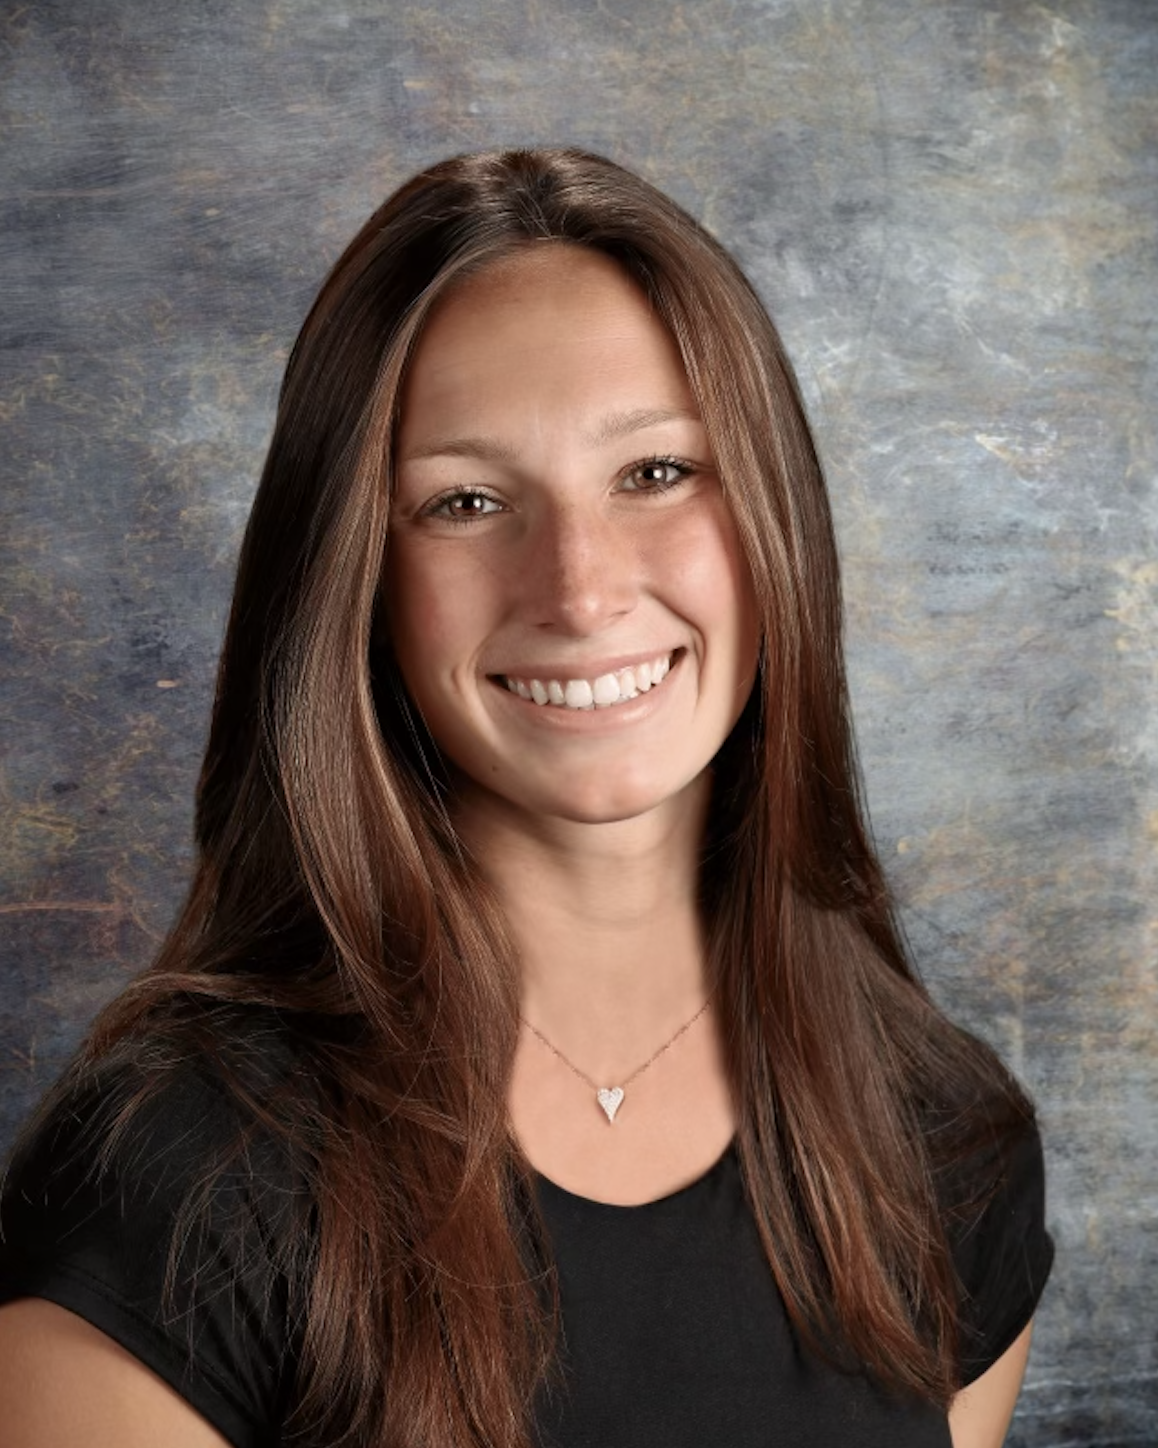
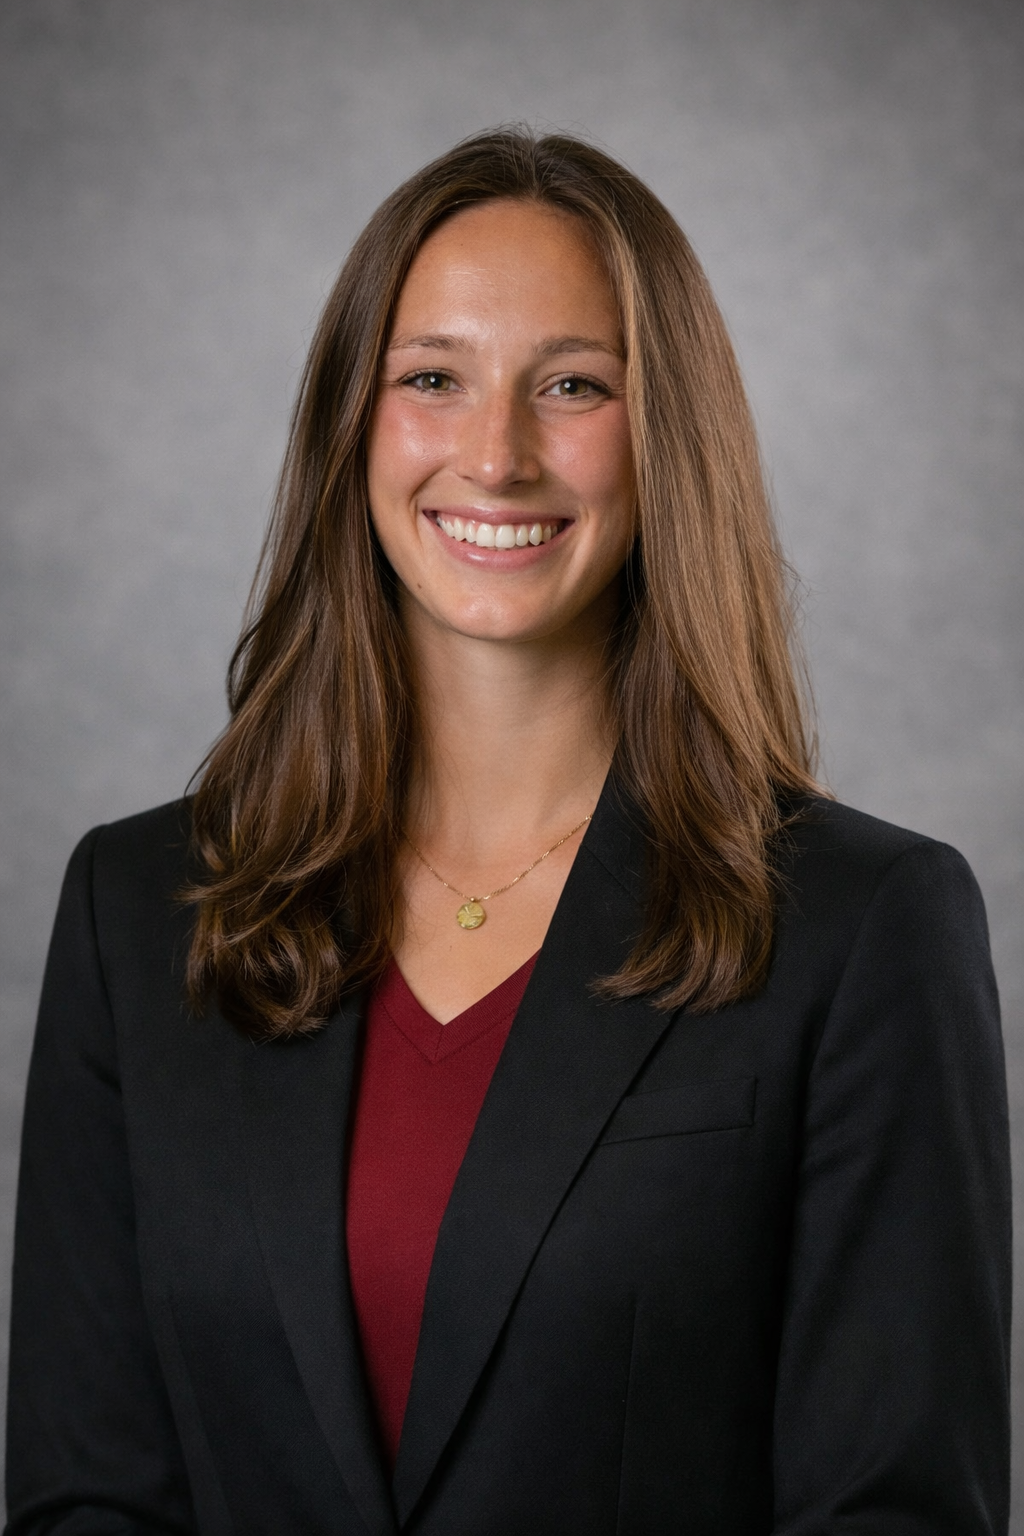
Updated Krish and Pollys Headshots and descriptions

diff --git a/src/components/Brothers.js b/src/components/Brothers.js
@@ -82,7 +82,7 @@ const brotherhood = [
   {
     className: "Mu Class",
     members: [
-      {name: "Krish Patel", email: "kdp57@cornell.edu", year: "2028", major: "Finance, Entrepreneurship and Real Estate", involvement: "South Asian Business Association, Cornell Real Estate Club, Society for India, Sitara @ Cornell, Cornell Poker Club", hobbies: "Traveling, Fishing, Pickleball & Basketball, Tampa Bay Buccaneers, Poker & Blackjack, Real Estate", image: "headshots/KrishPatel-Headshot.png", style: {objectPosition: "center 35%"} },
+      {name: "Krish Patel", email: "kdp57@cornell.edu", year: "2028", major: "Finance, Entrepreneurship and Real Estate", involvement: "Social Fraternity, South Asian Business Association, Cornell Real Estate Club, Society for India, Sitara @ Cornell, Cornell Poker Club", hobbies: "Traveling, Fishing, Pickleball & Basketball, Tampa Bay Buccaneers, Poker & Blackjack, Real Estate", image: "headshots/KrishPatel-Headshot.png", style: {objectPosition: "center 35%"} },
       {name: "Kate Sahin", email: "khs78@cornell.edu", year: "2028", major: "HBHS, Fiber Science", involvement: "Grub Ventures", hobbies: "Running, Podcasts, Thrifting", image: "headshots/KateSahin-Headshot.jpg", style: {objectPosition: "center 35%"} },
       {name: "Mariko Mita", email: "mm3445@cornell.edu", year: "2028", major: "Hotel Administration", involvement: "Hospitality Sales and Marketing Association International, Hotel Ezra Cornell, Society for Women in Business, Singapore Student Association, Japan US Association", hobbies: "Rhythmic Gymnastics, Film Photography, Formula 1", image: "headshots/MarikoMita-Headshot.jpg", style: {objectPosition: "center 35%"} },
       {name: "Julius Behner", email: "jpb385@cornell.edu", year: "2029", major: "ECE or CS", involvement: "Hall Council, Independent Projects", hobbies: "Reading, Coding, Debate, Practical Jokes", image: "headshots/JuliusBehner-Headshot.jpg", style: {objectPosition: "center 35%"} },
